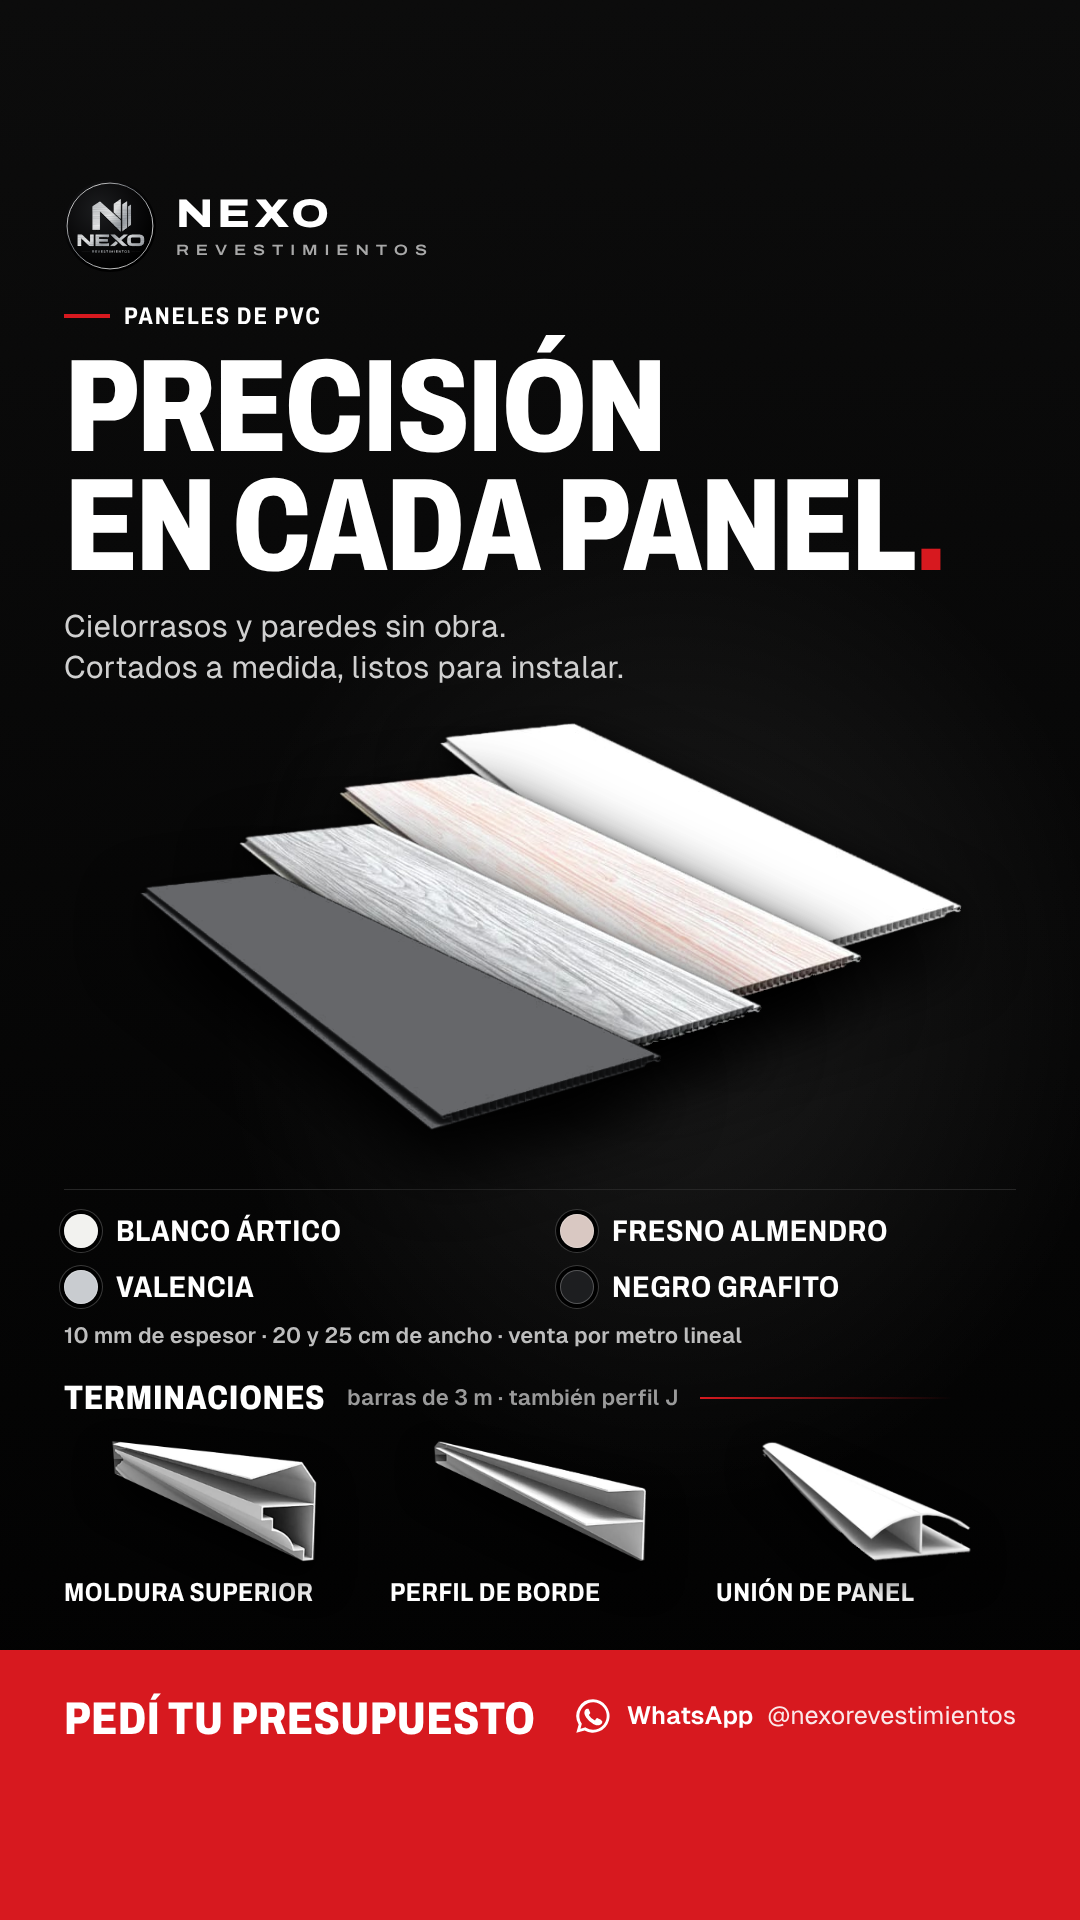
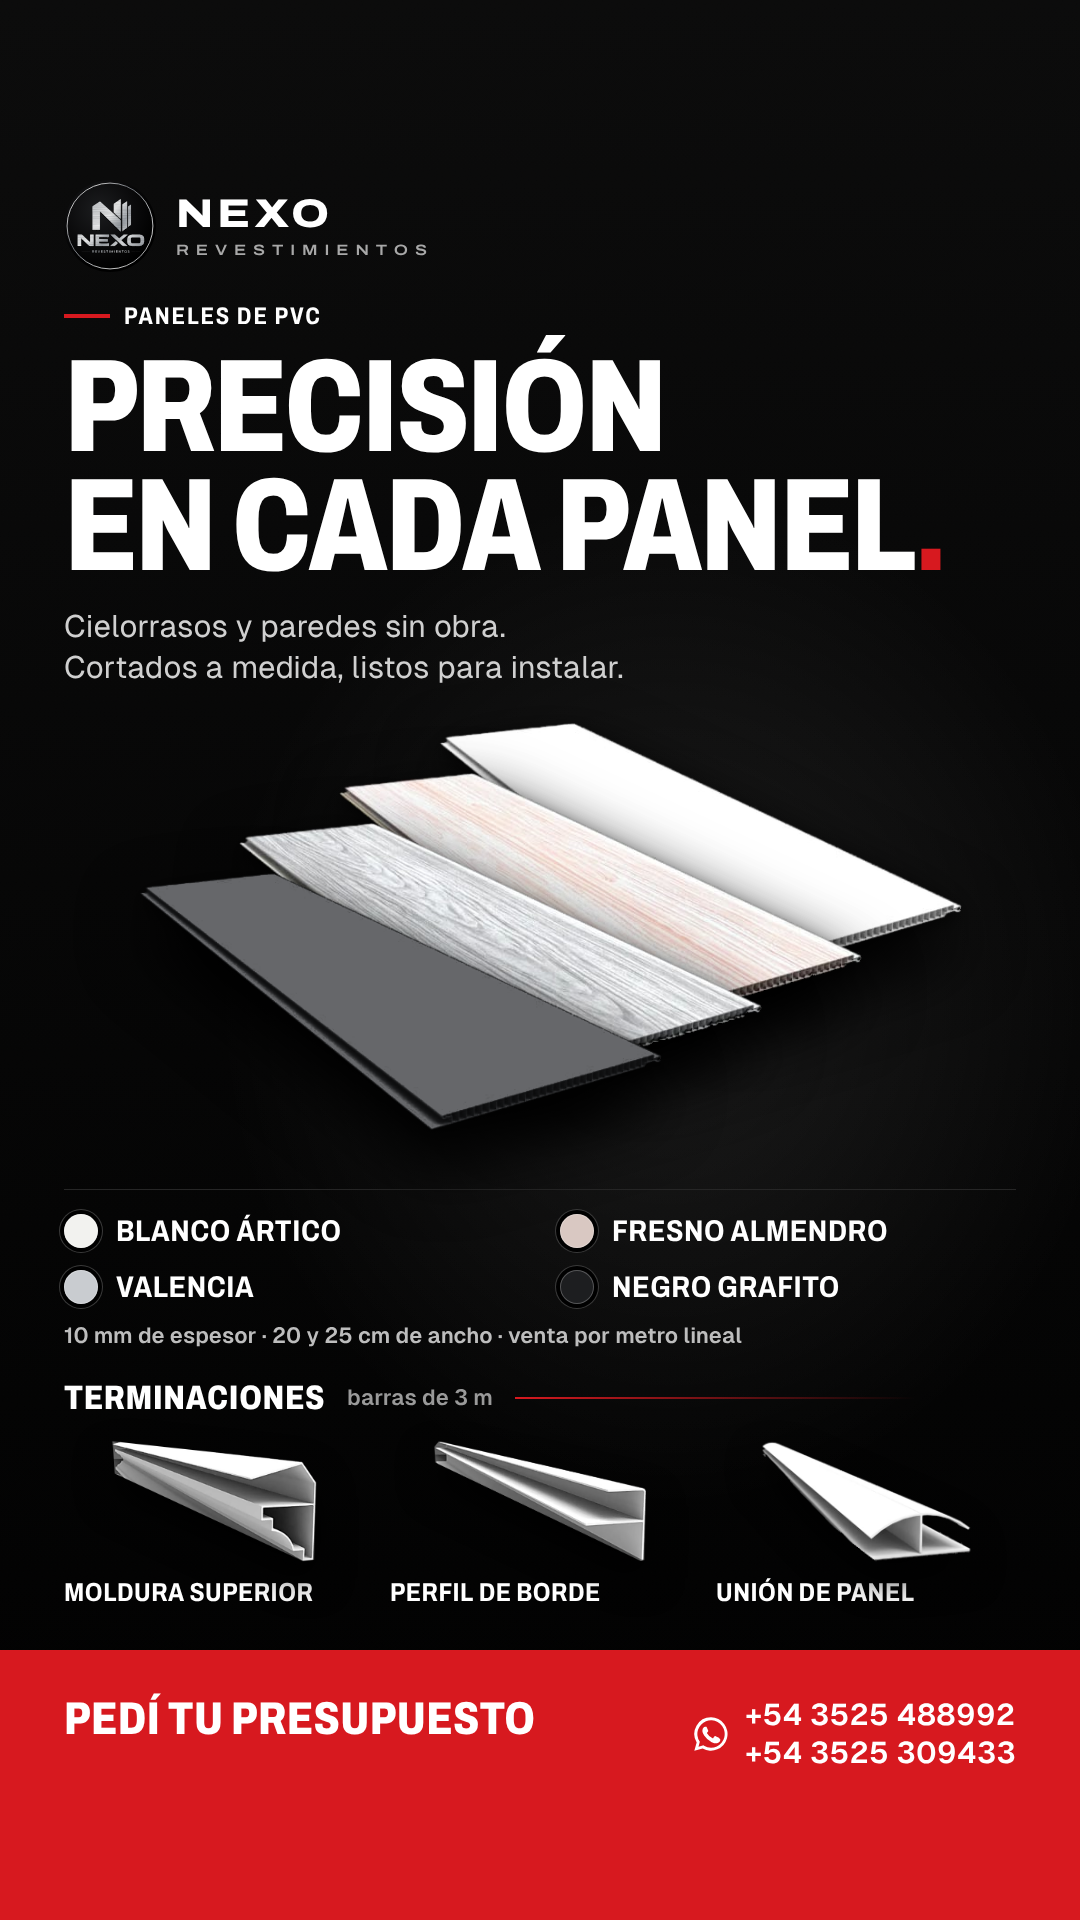
Nexo: WhatsApp reales y sin perfil J
Principal +54 3525 488992 (presupuestos) y segundo +54 3525 309433 en
Contacto. Se quita el perfil J de la web y de los flyers.

Claude-Session: https://claude.ai/code/session_017sdW4jtxW3QM2jhT7L8Bgn

Changed region(s): [[0.5194, 0.875, 0.9472, 0.9375], [0.4889, 0.7188, 0.6111, 0.75]]

diff --git a/nexo-revestimientos/js/app.js b/nexo-revestimientos/js/app.js
@@ -341,8 +341,11 @@
 
   function datosContacto() {
     document.querySelectorAll("[data-wa]").forEach(function (a) { a.href = waLink(a.getAttribute("data-wa")); });
-    var n = String(CFG.whatsapp || "");
-    $("#wa-num").textContent = n ? "+" + n.replace(/^(\d{2})(\d)(\d{4})(\d+)$/, "$1 $2 $3 $4") : "—";
+    // 5493525488992 -> +54 3525 488992 (sin el 9 de celular, como se escribe en Argentina)
+    $("#wa-num").innerHTML = [CFG.whatsapp, CFG.whatsapp2].filter(Boolean).map(function (n) {
+      var txt = "+" + String(n).replace(/^54(9)?(\d{4})(\d+)$/, "54 $2 $3");
+      return '<a href="https://wa.me/' + esc(n) + '" target="_blank" rel="noopener">' + esc(txt) + "</a>";
+    }).join("<br>") || "—";
     var ig = $("#ig-link");
     ig.href = "https://instagram.com/" + CFG.instagram;
     ig.textContent = "@" + CFG.instagram;

diff --git a/nexo-revestimientos/css/styles.css b/nexo-revestimientos/css/styles.css
@@ -153,7 +153,7 @@ body::before {
 /* Catálogo en tarjetas */
 .grid { display: grid; gap: 16px; }
 .grid-paneles { grid-template-columns: repeat(auto-fill, minmax(min(220px, 100%), 1fr)); }
-.grid-perfiles { grid-template-columns: repeat(auto-fill, minmax(min(270px, 100%), 1fr)); }
+.grid-perfiles { grid-template-columns: repeat(auto-fit, minmax(min(270px, 100%), 1fr)); }
 .card { display: grid; grid-template-rows: auto 1fr; border: 1px solid var(--line); background: var(--panel); min-width: 0; transition: border-color .2s ease; }
 .card:hover { border-color: var(--line-2); }
 .card-media { position: relative; aspect-ratio: 4 / 3; max-width: 100%; border-bottom: 1px solid var(--line); }

diff --git a/nexo-revestimientos/js/config.js b/nexo-revestimientos/js/config.js
@@ -5,8 +5,8 @@ window.NEXO_CONFIG = {
   // Número de WhatsApp con código de país, sin "+", espacios ni guiones.
   // Formato Argentina celular: 549 + característica sin 0 + número sin 15.
   // Ej: (03525) 15-123456  ->  5493525123456
-  // ⚠ REEMPLAZAR por el número real:
-  whatsapp: "5493525000000",
+  whatsapp: "5493525488992",   // principal: recibe los presupuestos de la web
+  whatsapp2: "5493525309433",  // segundo número, se muestra en Contacto
 
   instagram: "nexorevestimientos",
   direccion: "", // ej: "Av. San Martín 1234" (opcional, se usa en el link al mapa)

diff --git a/nexo-revestimientos/README.md b/nexo-revestimientos/README.md
@@ -21,7 +21,7 @@ en PNG de 4096 × 4096 (con fondo y transparente) y en 1080 × 1080 para la foto
 
 Abrir `js/config.js` y completar:
 
-- `whatsapp`: número real, formato `549` + característica sin 0 + número sin 15. Ej: `5493525123456`.
+- `whatsapp` (principal, recibe los presupuestos) y `whatsapp2` (se muestra en Contacto): formato `549` + característica sin 0 + número sin 15. Ej: `5493525488992`.
 - `horario`, `direccion` (opcional), `mostrarPrecios`.
 
 ## Cómo cargar el stock
@@ -74,5 +74,5 @@ La forma más simple es Netlify Drop (https://app.netlify.com/drop): arrastrar l
 
 - Fotos reales de los paneles y de trabajos terminados (galería). Pedirle al proveedor las fotos oficiales.
 - Precios de venta al público y stock real.
-- Dirección exacta y número de WhatsApp.
+- Dirección exacta.
 - Dominio propio y link en la bio de Instagram.
